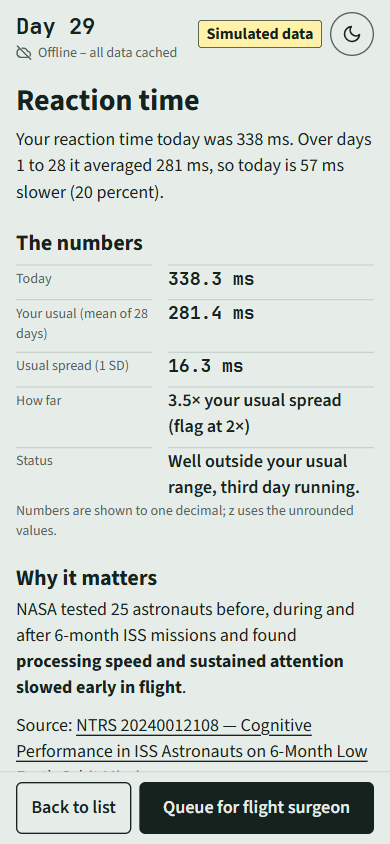
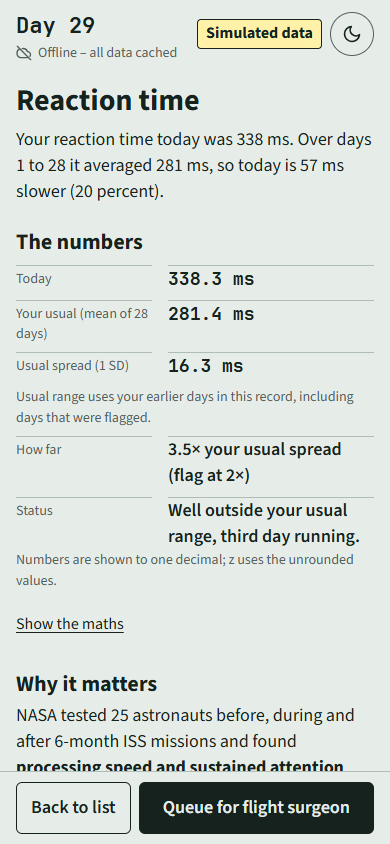
A7: one line on the evidence card saying how the usual range is computed

diff --git a/web/app.js b/web/app.js
@@ -46,6 +46,8 @@ function monoNums(el) {
   return el;
 }
 const ROUNDING_NOTE = "Numbers are shown to one decimal; z uses the unrounded values.";
+// True of Rules.evaluate: history is every earlier row (up to 30), today left out, flagged days not filtered out.
+const USUAL_NOTE = "Usual range uses your earlier days in this record, including days that were flagged.";
 const signed = (z) => `${z < 0 ? "−" : "+"}${Math.abs(z).toFixed(1)}`;
 const listWords = (xs) => (xs.length < 2 ? xs.join("") : `${xs.slice(0, -1).join(", ")} and ${xs.at(-1)}`);
 const title = (r) => (r.signal ? SIGNALS[r.signal].name : "Several readings together");
@@ -609,7 +611,7 @@ function renderEvidence(r) {
     ? [
       ["Today", fmtZ(r, r.current)],
       [`Your usual (mean of ${r.window_days} days)`, fmtZ(r, r.baseline_mean)],
-      ["Usual spread (1 SD)", fmtZ(r, r.baseline_sd)],
+      ["Usual spread (1 SD)", fmtZ(r, r.baseline_sd), USUAL_NOTE],
       ["How far", `${times(r.z)} your usual spread (flag at ${Rules.THRESHOLD}×)`],
       ["Status", plainStatus(r)],
     ]
@@ -620,7 +622,7 @@ function renderEvidence(r) {
       ["Status", plainStatus(r)],
     ];
   $("ev-numbers").classList.toggle("nums", !!r.signal); // today, usual and spread in the number font
-  $("ev-numbers").replaceChildren(...numbers.flatMap(([k, v]) => [make("dt", k), make("dd", v)]));
+  $("ev-numbers").replaceChildren(...numbers.flatMap(([k, v, note]) => [make("dt", k), make("dd", v), ...(note ? [make("dd", note, "usual-note")] : [])]));
 
   // A study is shown only with its id, title and URL; a step only with its source.
   const study = e.source_id != null && PREFIX[e.source_type] && e.title && e.url;

diff --git a/web/index.html b/web/index.html
@@ -231,6 +231,7 @@ fieldset { border: 0; padding: 0; margin: 28px 0 0; min-width: 0; }
 .readout dt { padding-top: 3px; font-size: 14px; color: var(--quiet); }
 .readout dd { margin: 0; overflow-wrap: anywhere; font-weight: 600; }
 .readout.nums dd:nth-of-type(-n+3) { font-family: var(--mono); } /* today, usual, spread */
+.readout .usual-note { grid-column: 1 / -1; border-top: 0; color: var(--quiet); font-size: 14px; font-weight: 400; }
 .cite { overflow-wrap: anywhere; }
 #ev-words strong { font-weight: 700; }
 #ev-rule { margin-top: 24px; overflow-wrap: anywhere; }
@@ -542,6 +543,6 @@ fieldset { border: 0; padding: 0; margin: 28px 0 0; min-width: 0; }
 <script src="spe.js?v=8dc481d0f5"></script>
 <script src="reaction.js?v=0c373ca889"></script>
 <script src="store.js?v=cb99d76b39"></script>
-<script src="app.js?v=8b50d83857"></script>
+<script src="app.js?v=0c4fd46b91"></script>
 </body>
 </html>

diff --git a/tests/test_usual_range_line.py b/tests/test_usual_range_line.py
@@ -1,0 +1,51 @@
+"""PLAN A7: one line under the usual value and spread on each single-signal evidence card, saying how they are
+computed. The sentence must stay true of the rule, so the rule's own numbers are checked here too."""
+
+import json
+import statistics
+from pathlib import Path
+
+from baseline.compute.rules import evaluate
+from baseline.compute.wording import blocks_diagnostic
+from tests.test_marks import run, pytestmark  # noqa: F401  # the same stand-in page; skipped without node
+
+LINE = "Usual range uses your earlier days in this record, including days that were flagged."
+
+
+def test_line_is_under_the_usual_spread_on_every_single_signal_card_and_not_on_the_48_hour_card():
+    out = run("""
+const p = await page(mem()); p.check();
+const read = (s) => { p.card(s); return p.$('ev-numbers').children.map((c) => c.textContent); };
+const day29 = Object.fromEntries(p.run('flagsFor(state.day).map((r) => r.signal || "")').map((s) => [s, read(s)]));
+p.nextDay();
+return { day29, mood: read('mood_1to5'), errors: p.errors };
+""")
+    cards = {**out["day29"], "mood on day 30": out["mood"]}
+    assert sorted(cards) == ["", "hrv_rmssd_ms", "mood on day 30", "reaction_ms", "sleep_hours"]
+    for name, children in cards.items():
+        if name == "":
+            assert LINE not in children, "the 48-hour row has no usual value"
+            continue
+        assert children.count(LINE) == 1, name
+        at = children.index(LINE)
+        assert children[at - 2] == "Usual spread (1 SD)", name
+        assert children[at + 1] == "How far", name
+    assert out["errors"] == []
+
+
+def test_the_line_is_true_of_the_rule_today_left_out_and_flagged_days_counted():
+    """Day 29 of the demo: days 27 and 28 were flagged for reaction time and are in its usual value and spread."""
+    rows = json.loads(Path("web/data/crew_a_anomaly.json").read_text())["rows"]
+    rows = [dict(r, **({"sleep_hours": 5.0, "mood_1to5": 4} if r["day"] == 29 else {})) for r in rows if r["day"] <= 29]
+    flags = evaluate(rows)
+    r = next(x for x in flags[29] if x.get("signal") == "reaction_ms")
+    earlier = [x["reaction_ms"] for x in rows if x["day"] < 29]
+    assert {27, 28} <= {d for d, rs in flags.items() if any(x.get("signal") == "reaction_ms" for x in rs)}
+    assert r["window_days"] == len(earlier) == 28
+    assert r["baseline_mean"] == statistics.mean(earlier)
+    assert r["baseline_sd"] == statistics.stdev(earlier)
+
+
+def test_the_line_passes_the_wording_check():
+    assert blocks_diagnostic(LINE) == []
+    assert f'const USUAL_NOTE = "{LINE}";' in Path("web/app.js").read_text(encoding="utf-8")

diff --git a/README.md b/README.md
@@ -9,7 +9,7 @@
   &nbsp;
   <img src="web/screenshots/3-flags-390.png" width="260" alt="What changed today: reaction time and heart rate variability are outside the usual range, each with a three-day trend card under its flag.">
   &nbsp;
-  <img src="web/screenshots/4-evidence-390.png" width="260" alt="Evidence card for reaction time: the change in plain words, the numbers, why it matters with the NTRS source link, and the Back to list and Queue for flight surgeon buttons.">
+  <img src="web/screenshots/4-evidence-390.png" width="260" alt="Evidence card for reaction time: the change in plain words, the numbers with a line on how the usual range is computed, the start of why it matters, and the Back to list and Queue for flight surgeon buttons.">
 </p>
 
 > **Every vital sign in this repository is simulated.** There is no real crew data. The demo page says "Simulated data" on every screen. The real feeds are NASA MSL RAD (Mars surface radiation, CDAWeb dataset MSL_RAD_OBS-L2) and NOAA GOES solar protons, shown together in their own box, "Real data: NASA MSL RAD and NOAA GOES".
@@ -67,7 +67,7 @@ pytest -q
 python -m baseline.serve
 ```
 
-`pytest -q` should print **110 passed**. The last line opens the demo in your browser at http://localhost:8000 (or 8001–8010 if busy). Ctrl+C stops it.
+`pytest -q` should print **113 passed**. The last line opens the demo in your browser at http://localhost:8000 (or 8001–8010 if busy). Ctrl+C stops it.
 
 **On a phone:** `python -m baseline.serve --lan`, then open the second address it prints on a phone on the same wifi. Windows may ask to let Python through the firewall; allow it for private networks.
 
@@ -215,7 +215,7 @@ web/                    the page: index.html, app.js, rules.js, trend.js, projec
 data/fixtures/          simulated 30-day records (clean, anomaly)
 cache/                  NTRS, OSDR and NOAA responses with source URL and fetch time
 docs/                   evidence map, evidence notes, design notes
-tests/                  110 tests
+tests/                  113 tests
 ```
 
 ---
